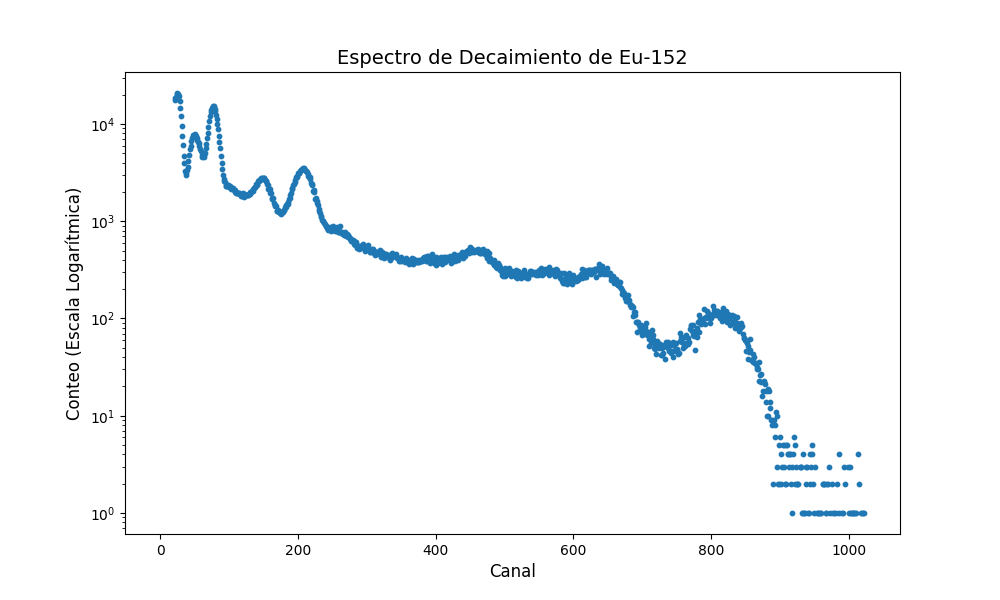
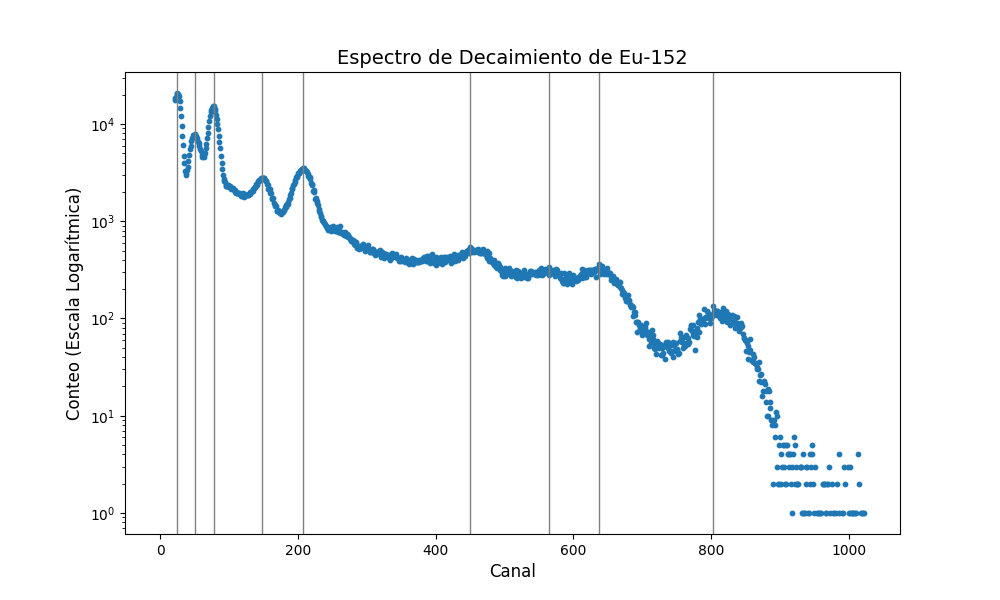
WIP

Changed region(s): [[0.186, 0.12, 0.217, 0.9]]

diff --git a/rayos_gamma/calibrar_energia.py b/rayos_gamma/calibrar_energia.py
@@ -7,7 +7,7 @@ def graph_eu152_data(file_path):
     Graphs data from a CSV file containing channel and count measurements
     from Eu-152 decay, plotting count vs. channel on a log scale as a
     scatter plot (no lines), and saving the plot to a file in the same
-    directory as the data file.
+    directory as the data file.  Also finds and displays local maxima.
 
     Args:
         file_path (str): The path to the CSV file.  The file should contain
@@ -16,59 +16,107 @@ def graph_eu152_data(file_path):
     Returns:
         bool: True if the graph was successfully created and saved, False otherwise.
     """
-    try:
-        # 1. Data Loading and Processing
-        channels = []
-        counts = []
+    # 1. Data Loading and Processing
+    channels = []
+    counts = []
 
-        with open(file_path, 'r') as csvfile:
-            reader = csv.reader(csvfile)  # Use csv.reader for simple CSV files
-            for row in reader:
-                try:
-                    channel = int(row[0])
-                    count = int(row[1])
-                    channels.append(channel)
-                    counts.append(count)
-                except (ValueError, IndexError) as e:
-                    print(f"Skipping row due to error: {e}. Row data: {row}") #Handle bad data robustly.
-                    continue # Skip to the next row
+    with open(file_path, 'r') as csvfile:
+        reader = csv.reader(csvfile)  # Use csv.reader for simple CSV files
+        for row in reader:
+            try:
+                channel = int(row[0])
+                count = int(row[1])
+                channels.append(channel)
+                counts.append(count)
+            except (ValueError, IndexError) as e:
+                print(f"Skipping row due to error: {e}. Row data: {row}") #Handle bad data robustly.
+                continue # Skip to the next row
 
-        if not channels or not counts:
-            print("No valid data found in the file.")
-            return False
-
-        # 2. Plotting
-        plt.figure(figsize=(10, 6))  # Adjust figure size for better readability
-
-        plt.scatter(channels, counts, s=10)  # Use plt.scatter for a dispersion plot
-
-        plt.yscale('log')  # Set y-axis to a logarithmic scale
-
-        # 3. Labels and Title (in Spanish)
-        plt.xlabel("Canal", fontsize=12)  # Channel
-        plt.ylabel("Conteo (Escala Logarítmica)", fontsize=12)  # Count (Logarithmic Scale)
-        plt.title("Espectro de Decaimiento de Eu-152", fontsize=14)  # Eu-152 Decay Spectrum
-
-        # 4. Save the Plot
-        directory = os.path.dirname(file_path)
-        filename = os.path.basename(file_path)
-        name, ext = os.path.splitext(filename)
-        output_file_path = os.path.join(directory, f"{name}_graph.png")
-
-        plt.savefig(output_file_path) # Save as PNG - a widely compatible format
-        plt.close() # Close the figure to free memory
-
-        print(f"Graph saved to: {output_file_path}")
-        return True
-
-    except FileNotFoundError:
-        print(f"Error: File not found at {file_path}")
-        return False
-    except Exception as e:
-        print(f"An unexpected error occurred: {e}")
+    if not channels or not counts:
+        print("No valid data found in the file.")
         return False
 
+    # 2. Find Local Maxima
+    channel_cuts = [
+        37, 63, 122
+        , 175, 350, 500
+        , 600, 750
+        ] + [ channels[-1] ]
 
+    maxima_indices = \
+        find_local_maxima(channels, counts, channel_cuts)
+
+    # 3. Plotting
+    plt.figure(figsize=(10, 6))  # Adjust figure size for better readability
+
+
+    plt.yscale('log')  # Set y-axis to a logarithmic scale
+
+    # 4. Plot Maxima Lines
+    for i in maxima_indices:
+        plt.axvline(x=channels[i], color='gray', linewidth=1)
+    
+    # for c in channel_cuts:
+    #     plt.axvline(x=c, color='pink', linewidth=0.5)
+    
+    plt.scatter(channels, counts, s=10)  # Use plt.scatter for a dispersion plot
+
+    # 5. Labels and Title (in Spanish)
+    plt.xlabel("Canal", fontsize=12)  # Channel
+    plt.ylabel("Conteo (Escala Logarítmica)", fontsize=12)  # Count (Logarithmic Scale)
+    plt.title("Espectro de Decaimiento de Eu-152", fontsize=14)  # Eu-152 Decay Spectrum
+
+    # 6. Save the Plot
+    directory = os.path.dirname(file_path)
+    filename = os.path.basename(file_path)
+    name, ext = os.path.splitext(filename)
+    output_file_path = os.path.join(directory, f"{name}_graph.png")
+
+    plt.savefig(output_file_path) # Save as PNG - a widely compatible format
+    plt.close() # Close the figure to free memory
+
+    print(f"Graph saved to: {output_file_path}")
+    return True
+
+
+
+def find_local_maxima(channels, counts, channel_cuts):
+    """
+    Finds indices of local maxima in the data. A point is considered a
+    local maximum if it is greater than its immediate neighbors.
+
+    Args:
+        counts (list): List of corresponding count values.
+
+    Returns:
+        list: List of indices of local maxima.
+    """
+    max_values = []
+    max_indexes = []
+
+    ini = 0
+    fin = 0
+    
+    segmented = 0
+    for i,val in zip(channels, counts):
+        if i < channel_cuts[segmented]:
+            continue
+        
+        fin = i
+        segment = counts[ini:fin]
+        max_val = max( segment )
+
+        max_values.append(max_val)
+        for j,v in enumerate(segment):
+            if v == max_val:
+                max_indexes.append(ini + j)
+                break
+
+        segmented += 1
+        ini = i
+
+    return max_indexes        
+    
 
 # Example Usage (replace with your actual file path)
 file_path = "rayos_gamma/Eu-152.csv" #Example path.  Make sure this file exists!
